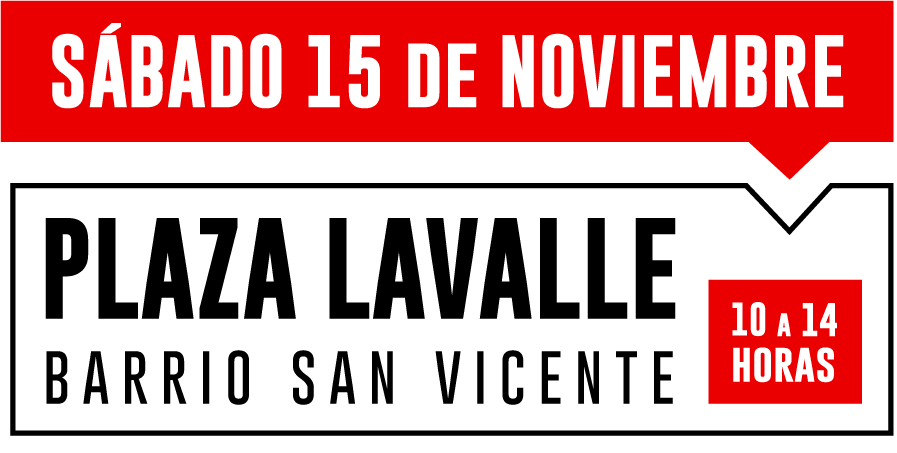
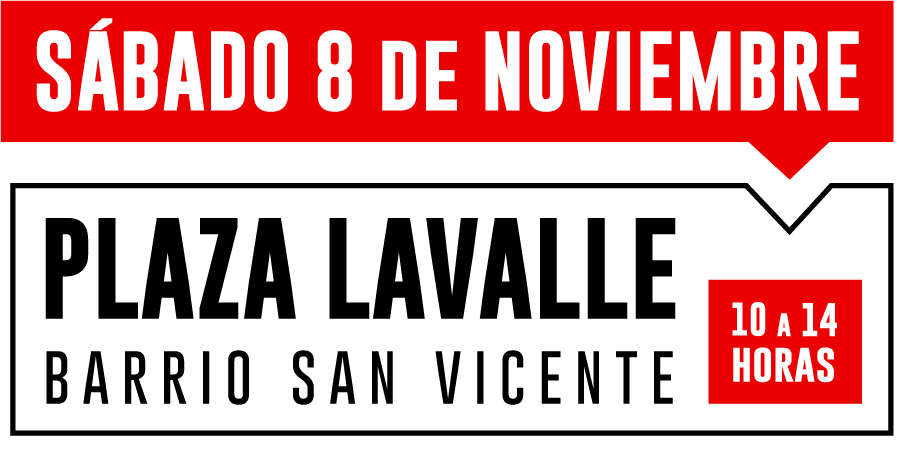
fecha y meta imagen actualizados

Changed region(s): [[0.0312, 0.0309, 0.9677, 0.2472]]

diff --git a/index.html b/index.html
@@ -31,7 +31,7 @@
   <meta property="og:type" content="website">
   <meta property="og:title" content="Mercado Barrial Itinerante">
   <meta property="og:description" content="Economía social y trabajo cooperativo">
-  <meta property="og:image" content="https://i.imgur.com/x1O9tBS.png">
+  <meta property="og:image" content="https://i.imgur.com/0eywZFi.png">
 
   <!-- Twitter Meta Tags -->
   <meta name="twitter:card" content="summary_large_image">
@@ -39,7 +39,7 @@
   <meta property="twitter:url" content="https://mercadobarrialitinerante.com/">
   <meta name="twitter:title" content="Mercado Barrial Itinerante">
   <meta name="twitter:description" content="Economía social y trabajo cooperativo">
-  <meta name="twitter:image" content="https://i.imgur.com/x1O9tBS.png">
+  <meta name="twitter:image" content="https://i.imgur.com/0eywZFi.png">
 
 </head>
 
